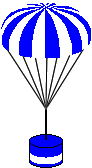
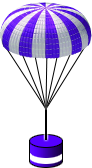
Adjust balloon/parachute images

diff --git a/auto_rx/autorx/static/js/utils.js b/auto_rx/autorx/static/js/utils.js
@@ -2,8 +2,8 @@
 // Mark Jessop 2018-06-30
 
 
-// Color cycling for balloon traces and icons - Hopefully 4 colors should be enough for now!
-var colour_values = ['red','green','blue','yellow', 'cyan', 'magenta'];
+// Color cycling for balloon traces and icons
+var colour_values = ['red','green','blue','purple','yellow','cyan'];
 var colour_idx = 0;
 
 var los_color = '#00FF00';
@@ -27,16 +27,6 @@ for (_col in colour_values){
     });
 }
 
-sondeAscentIcons['white'] =  L.icon({
-    iconUrl: "/static/img/balloon-white.png",
-    iconSize: [46, 85],
-    iconAnchor: [23, 76]
-});
-sondeDescentIcons['white'] = L.icon({
-    iconUrl: "/static/img/parachute-white.png",
-    iconSize: [46, 84],
-    iconAnchor: [23, 76]
-});
 
 
 // calculates look angles between two points
